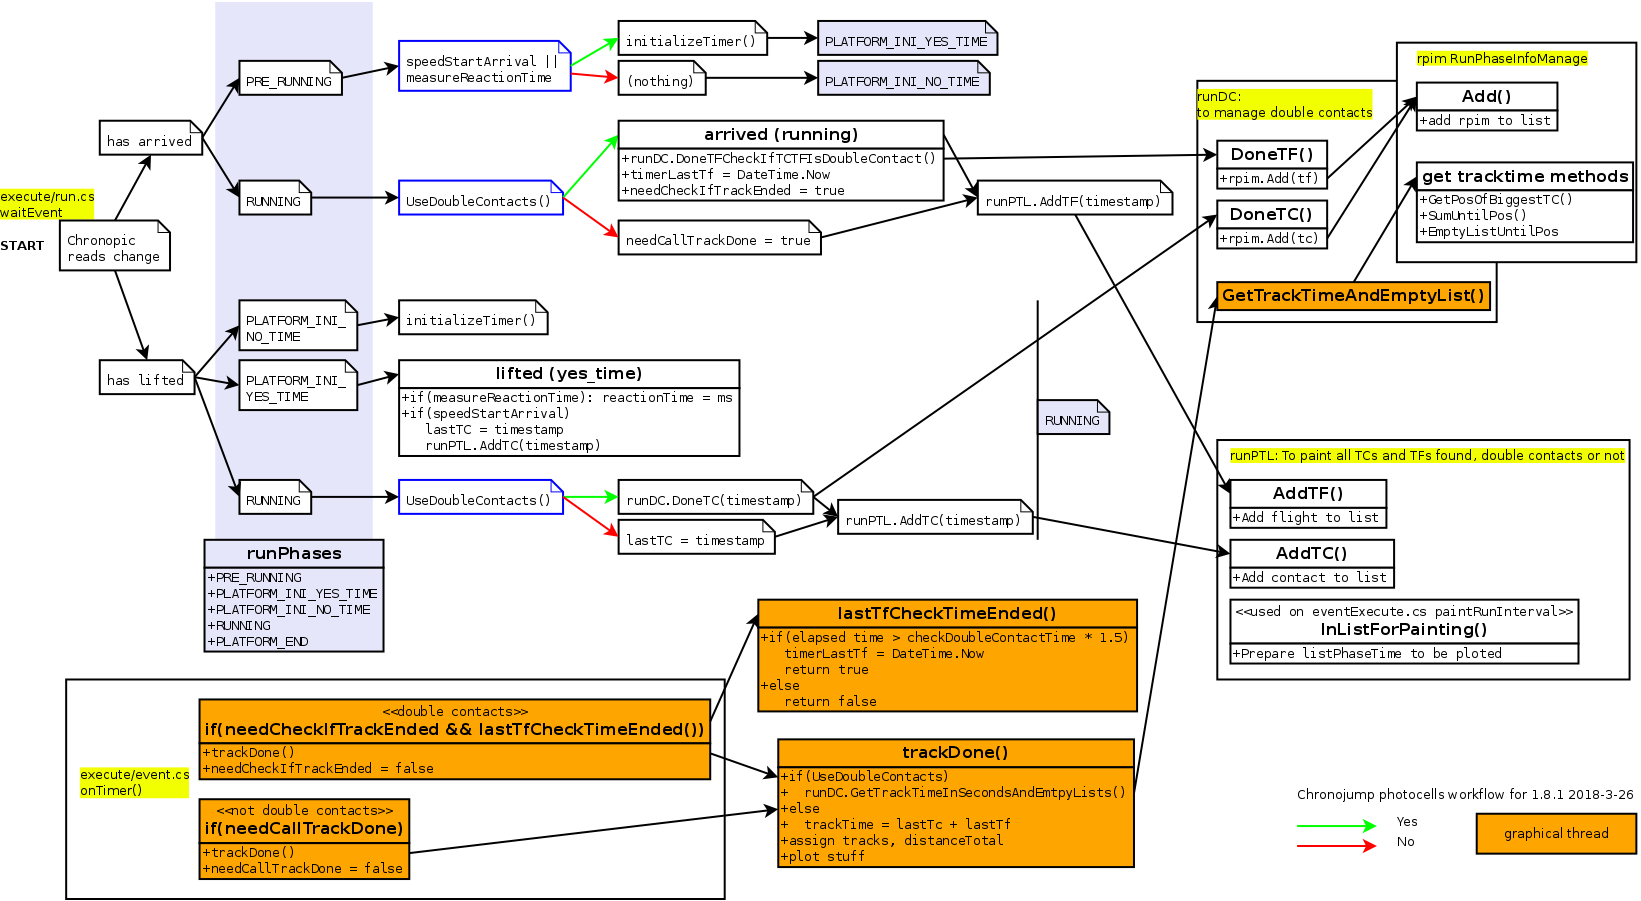
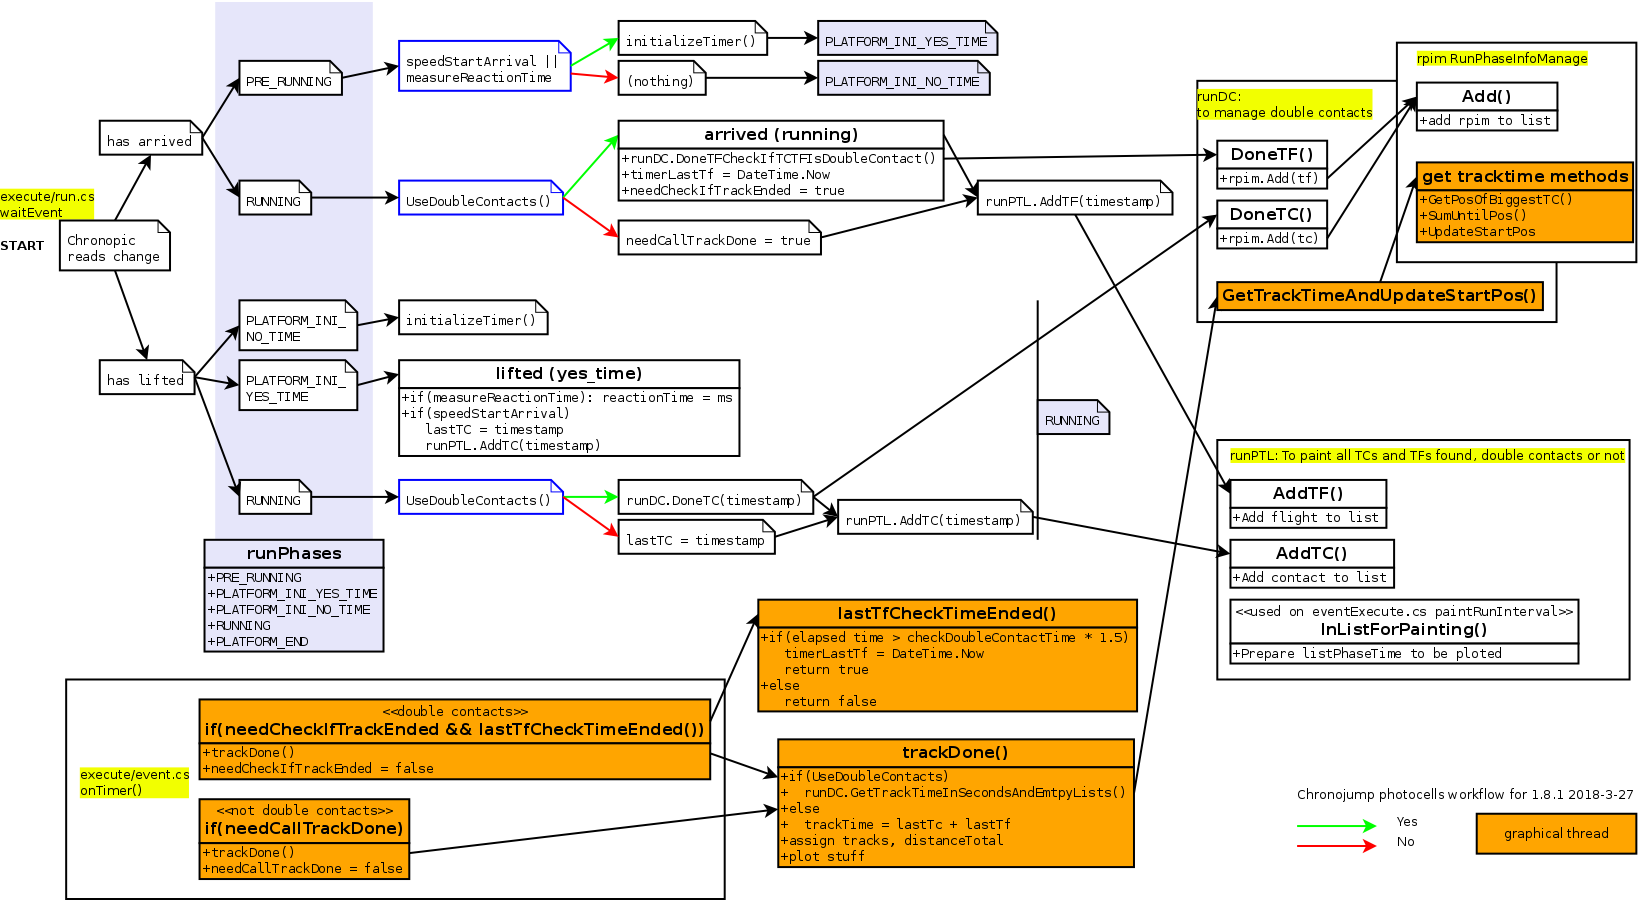
At execute run instead of empty list -> update startPos

Changed region(s): [[0.8391, 0.1554, 0.9945, 0.2797], [0.8391, 0.3108, 0.9634, 0.3729]]

diff --git a/src/execute/runObjects.cs b/src/execute/runObjects.cs
@@ -59,9 +59,14 @@ public class RunPhaseInfoManage
 {
 	private List<RunPhaseInfo> list;
 
+	//TCs and TFs before startPos have been added as tracks
+	//do not count again in track operations
+	private int startPos;
+
 	public RunPhaseInfoManage ()
 	{
 		list = new List<RunPhaseInfo>();
+		startPos = 0;
 	}
 		
 	public void Add (RunPhaseInfo rpi)
@@ -71,6 +76,7 @@ public class RunPhaseInfoManage
 
 	public int GetPosOfBiggestTC ()
 	{
+		LogB.Information("startPos at GetPosOfBiggestTC: " + startPos.ToString());
 		//if there's no tc, return -1, track duration will be tf duration
 		//if there's one tc, return -1, track duration will be tc+tf duration
 		if(countTCs() < 2)
@@ -83,7 +89,8 @@ public class RunPhaseInfoManage
 		int posBiggest = 0;
 		foreach(RunPhaseInfo rpi in list)
 		{
-			if(pos > 0 && rpi.IsContact() && rpi.Duration > max) //pos > 0 to not allow first tc to be the biggest
+			//pos > startPos +1 to not allow first tc to be the biggest
+			if(pos > startPos +1 && rpi.IsContact() && rpi.Duration > max)
 			{
 				max = rpi.Duration;
 				posBiggest = pos;
@@ -97,35 +104,38 @@ public class RunPhaseInfoManage
 	//if pos == -1 return all
 	public double SumUntilPos(int pos)
 	{
+		int countStart = 0;
 		double sum = 0;
 
-		if(pos == -1) {
+		if(pos == -1)
+		{
 			foreach(RunPhaseInfo rpi in list)
-				sum += rpi.Duration;
-		} else {
-			int count = 0;
-			foreach(RunPhaseInfo rpi in list)
-				if(count ++ < pos)
+				if(countStart ++ >= startPos)
 					sum += rpi.Duration;
+		} else {
+			int countEnd = 0;
+			foreach(RunPhaseInfo rpi in list)
+			{
+				if(countStart >= startPos && countEnd < pos)
+					sum += rpi.Duration;
+
+				countStart ++;
+				countEnd ++;
+			}
 		}
 
 		return sum;
 	}
-	
-	//if pos == -1 empty all
-	public void EmtpyListUntilPos(int pos)
-	{
-		if(pos == -1)
-			list = new List<RunPhaseInfo>();
-		else {
-			List<RunPhaseInfo> listNew = new List<RunPhaseInfo>();
-			int count = 0;
-			foreach(RunPhaseInfo rpi in list)
-				if(count ++ >= pos)
-					listNew.Add(rpi);
 
-			list = listNew;
-		}
+	public void UpdateStartPos (int bigTCPosition)
+	{
+		//if bigTCPosition == -1 , startPos will be one element more than list
+		//else bigTCPosition is the pos of the tc that cut the track. This tc has to be added on next track
+
+		if(bigTCPosition == -1)
+			startPos = list.Count;
+		else
+			startPos = bigTCPosition;
 	}
 			
 	public string PrintList()
@@ -139,9 +149,10 @@ public class RunPhaseInfoManage
 
 	private int countTCs()
 	{
+		int countStart = 0;
 		int count = 0;
 		foreach(RunPhaseInfo rpi in list)
-			if(rpi.IsContact())
+			if(countStart ++ >= startPos && rpi.IsContact())
 				count ++;
 
 		return count;
@@ -149,6 +160,11 @@ public class RunPhaseInfoManage
 
 	public int LastPositionOfList {
 		get { return list.Count -1; }
+	}
+
+	//to debug
+	public int StartPos {
+		get { return startPos; }
 	}
 }
 
@@ -202,7 +218,7 @@ public class RunDoubleContact
 	}
 
 	//this wait will be done by C#
-	public double GetTrackTimeInSecondsAndEmptyLists()
+	public double GetTrackTimeInSecondsAndUpdateStartPos()
 	{
 		double trackTime = 0;
 		/*
@@ -230,8 +246,10 @@ public class RunDoubleContact
 		int bigTCPosition = rpim.GetPosOfBiggestTC();
 		double sum = rpim.SumUntilPos(bigTCPosition);
 
-		LogB.Information(string.Format("\n----------------\ngetDCBiggestTC, list: {0}, bigTCPosition: {1}, sum: {2}", rpim.PrintList(), bigTCPosition, sum));
+		LogB.Information(string.Format("\n----------------\ngetDCBiggestTC, list: {0}, startPos: {1}, bigTCPosition: {2}, sum: {3}",
+					rpim.PrintList(), rpim.StartPos, bigTCPosition, sum));
 
+		//fix problem of a tc + tf lower than checkTime
 		if(sum < checkTime)
 		{
 			while (sum < checkTime && bigTCPosition +2 <= rpim.LastPositionOfList)
@@ -242,7 +260,8 @@ public class RunDoubleContact
 			}
 		}
 
-		rpim.EmtpyListUntilPos(bigTCPosition);
+		//rpim.EmptyListUntilPos(bigTCPosition);
+		rpim.UpdateStartPos(bigTCPosition);
 
 		return sum;
 	}

diff --git a/src/execute/run.cs b/src/execute/run.cs
@@ -872,7 +872,7 @@ public class RunIntervalExecute : RunExecute
 	{
 		double myTrackTime = 0;
 		if(runDC.UseDoubleContacts())
-			myTrackTime = runDC.GetTrackTimeInSecondsAndEmptyLists(); //will come in seconds
+			myTrackTime = runDC.GetTrackTimeInSecondsAndUpdateStartPos(); //will come in seconds
 		else {
 			//note in double contacts mode timestamp can have added DCFlightTimes and DCContactTimes. So contact time is not only on lastTc
 			myTrackTime = lastTc + lastTf/1000.0;
